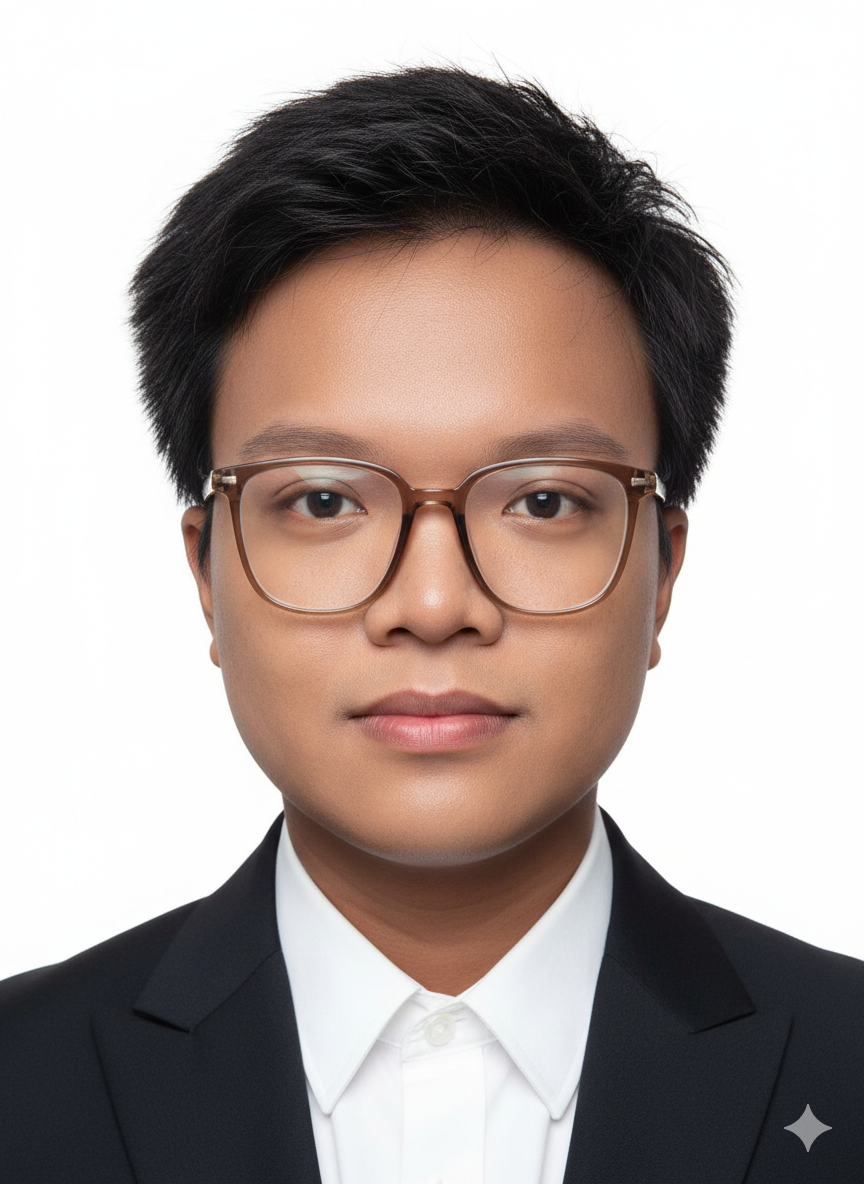
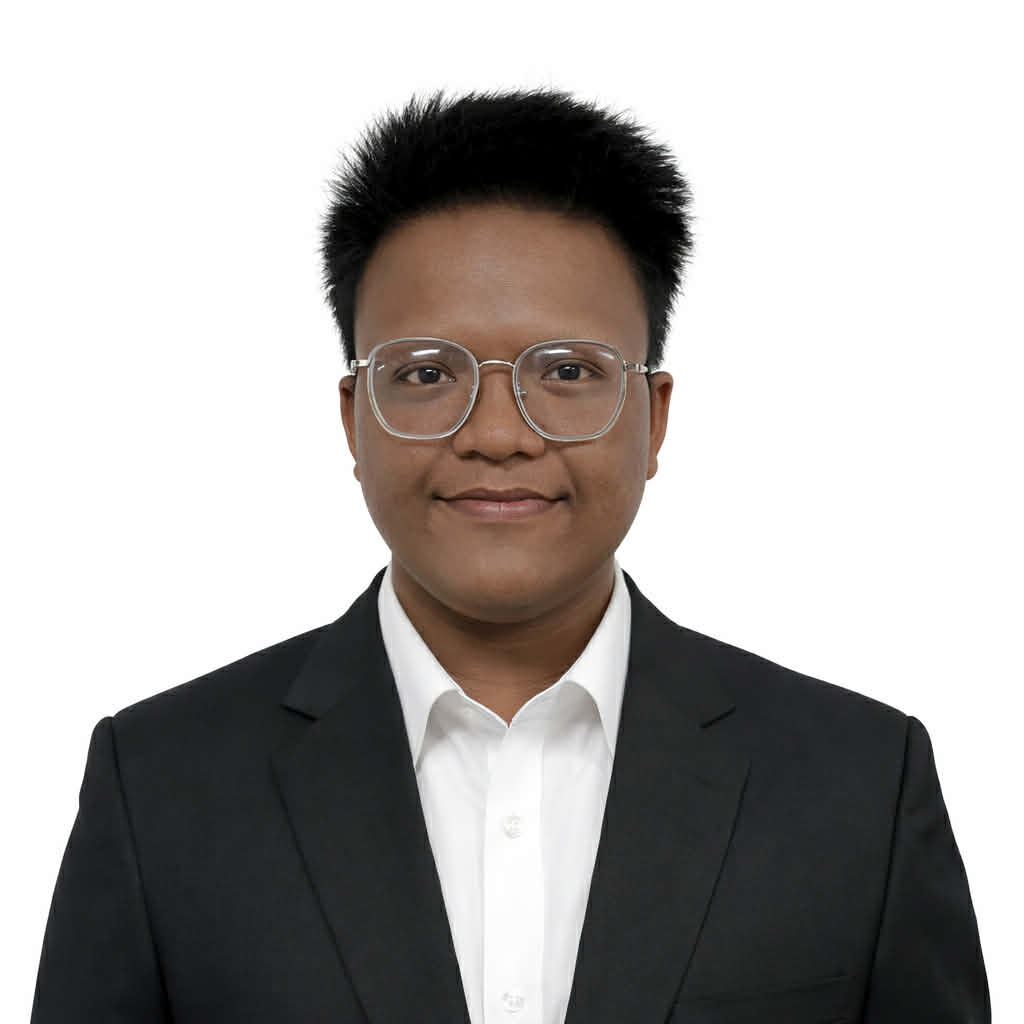
Updated files

diff --git a/style.css b/style.css
@@ -6,9 +6,9 @@
 }
 
 :root {
-  --misty-rose: #FFE4E1;
-  --burgundy: #6C131F;
-  --redwood: #A45A52;
+  --deep-navy: #0B2D72;   /* primary color */
+  --bright-cyan: #0992C2; /* secondary / highlights */
+  --electric-teal: #0AC4E0; /* hover / accent */
 }
 
 html {
@@ -16,7 +16,7 @@ html {
 }
 
 body {
-  background: #ffffff;
+  background: #F8FAFC;
   color: #1f2933;
   line-height: 1.7;
 }
@@ -31,7 +31,7 @@ header {
 .logo {
   font-weight: 700;
   font-size: 20px;
-  color: var(--burgundy);
+  color: var(--bright-cyan);
 }
 
 nav a {
@@ -42,7 +42,7 @@ nav a {
 }
 
 nav a:hover {
-  color: var(--burgundy);
+  color: var(--bright-cyan);
 }
 
 .hero {
@@ -65,7 +65,7 @@ nav a:hover {
 }
 
 .hero-text h1 span {
-  color: var(--burgundy);
+  color: var(--bright-cyan);
 }
 
 .hero-text p {
@@ -75,7 +75,7 @@ nav a:hover {
 
 .btn {
   display: inline-block;
-  background: var(--burgundy);
+  background: var(--bright-cyan);
   color: #fff;
   padding: 12px 28px;
   border-radius: 8px;
@@ -84,7 +84,7 @@ nav a:hover {
 }
 
 .btn:hover {
-  background: var(--redwood);
+  background: var(--electric-teal);
 }
 
 .hero-image {
@@ -97,7 +97,7 @@ nav a:hover {
   width: 320px;
   aspect-ratio: 1 / 1;
   border-radius: 50%;
-  background: var(--burgundy);
+  background: var(--bright-cyan);
   display: flex;
   justify-content: center;
   align-items: center;
@@ -121,7 +121,7 @@ nav a:hover {
 .about h2 {
   font-size: 32px;
   margin-bottom: 20px;
-  color: var(--burgundy);
+  color: var(--bright-cyan);
 }
 
 .about-text {
@@ -132,14 +132,14 @@ nav a:hover {
 
 .projects {
   padding: 100px 80px;
-  background: var(--misty-rose);
+  background: var(--deep-navy);
 }
 
 .projects h2 {
   font-size: 32px;
   margin-bottom: 40px;
   text-align: center;
-  color: var(--burgundy);
+  color: var(--bright-cyan);
 }
 
 .projects-grid {
@@ -167,7 +167,7 @@ nav a:hover {
   left: 0;
   width: 100%;
   height: 6px;
-  background: var(--redwood);
+  background: var(--electric-teal);
 }
 
 .project-card:hover {
@@ -178,7 +178,7 @@ nav a:hover {
 .project-card h3 {
   font-size: 22px;
   margin-bottom: 12px;
-  color: var(--burgundy);
+  color: var(--bright-cyan);
 }
 
 .project-card p {
@@ -191,7 +191,7 @@ nav a:hover {
 .project-card a {
   display: inline-block;
   padding: 10px 22px;
-  background: var(--burgundy);
+  background: var(--bright-cyan);
   color: #fff;
   text-decoration: none;
   font-weight: 600;
@@ -199,7 +199,7 @@ nav a:hover {
 }
 
 .project-card a:hover {
-  background: var(--redwood);
+  background: var(--electric-teal);
 }
 
 .contact {
@@ -212,7 +212,7 @@ nav a:hover {
 .contact h2 {
   font-size: 32px;
   margin-bottom: 20px;
-  color: var(--burgundy);
+  color: var(--bright-cyan);
 }
 
 .contact p {
@@ -221,7 +221,7 @@ nav a:hover {
 }
 
 .contact a {
-  color: var(--redwood);
+  color: var(--electric-teal);
   text-decoration: none;
 }
 
@@ -230,10 +230,10 @@ nav a:hover {
 }
 
 footer {
-  background: var(--misty-rose);
+  background: var(--deep-navy);
   padding: 40px 80px;
   text-align: center;
-  color: #555;
+  color: #fff;
 }
 
 @media (max-width: 900px) {

diff --git a/index.html b/index.html
@@ -12,7 +12,7 @@
 <body>
 
     <header>
-        <div class="logo">Reymiel</div>
+        <div class="logo">𝓡𝓮𝔂𝓶𝓲𝓮𝓵</div>
         <nav>
             <a href="#home">Home</a>
             <a href="#about">About</a>
@@ -76,10 +76,10 @@
 
     <section id="contact" class="contact">
         <h2>Contact</h2>
-        <p>cellphone #: <a>0907-570-4155</a></p>
-        <p>github: <a href="https://github.com/almarioreymiel">almarioreymiel</a></p>
-        <p>facebook: <a href="https://www.facebook.com/weymiel">Reymiel Olivar Almario</a></p>
-        <p>gmail: <a>reymielalmario@gmail.com</a></p>
+        <p>💻 GitHub: <a href="https://github.com/almarioreymiel">almarioreymiel</a></p>
+        <p>📱 Contact: 0907-570-4155</p>
+        <p>📘 Facebook: <a href="https://www.facebook.com/mieloalmario">Reymiel Olivar Almario</a></p>
+        <p>📧 Email: reymielalmario@gmail.com</p>
 
     </section>
 
